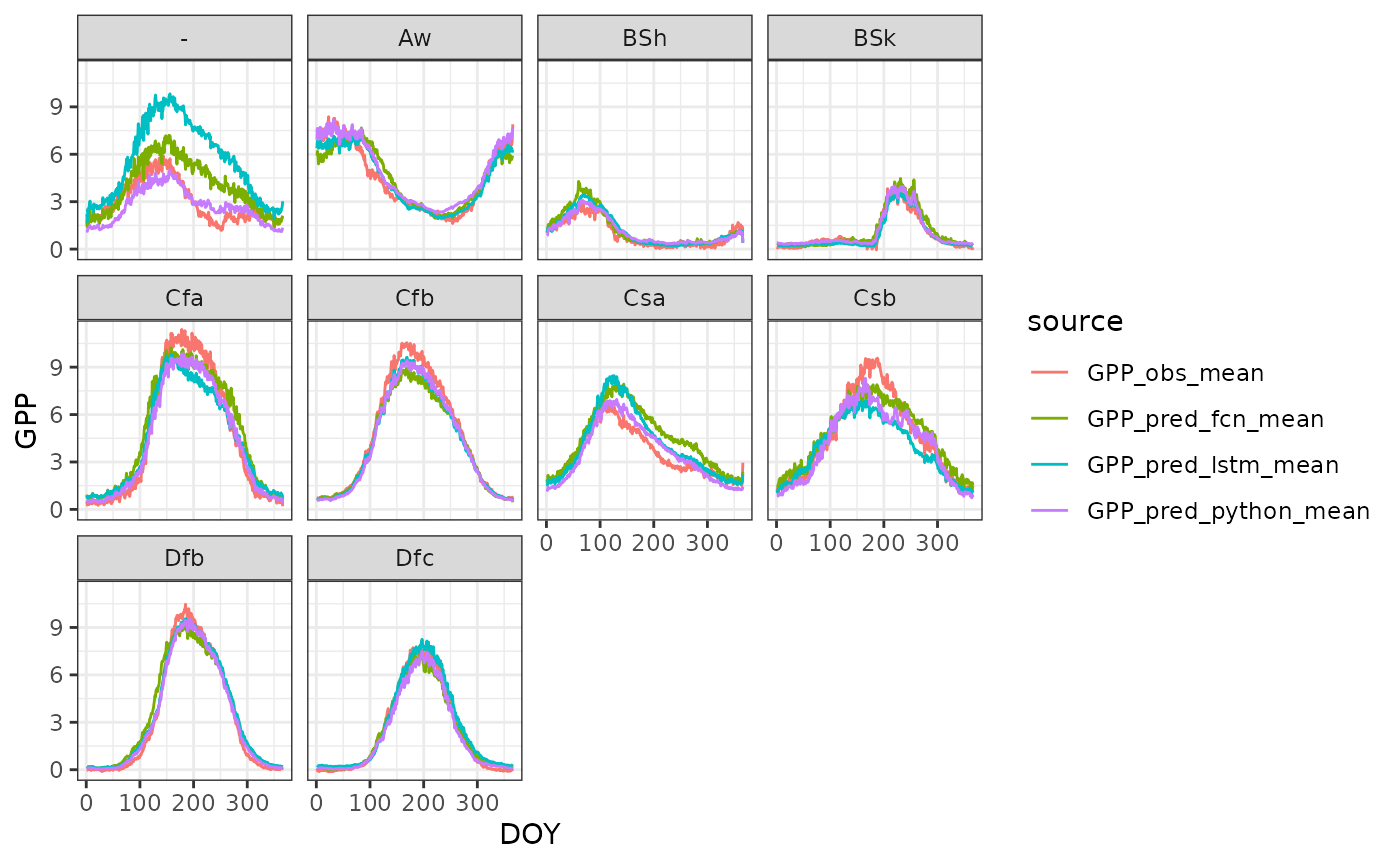
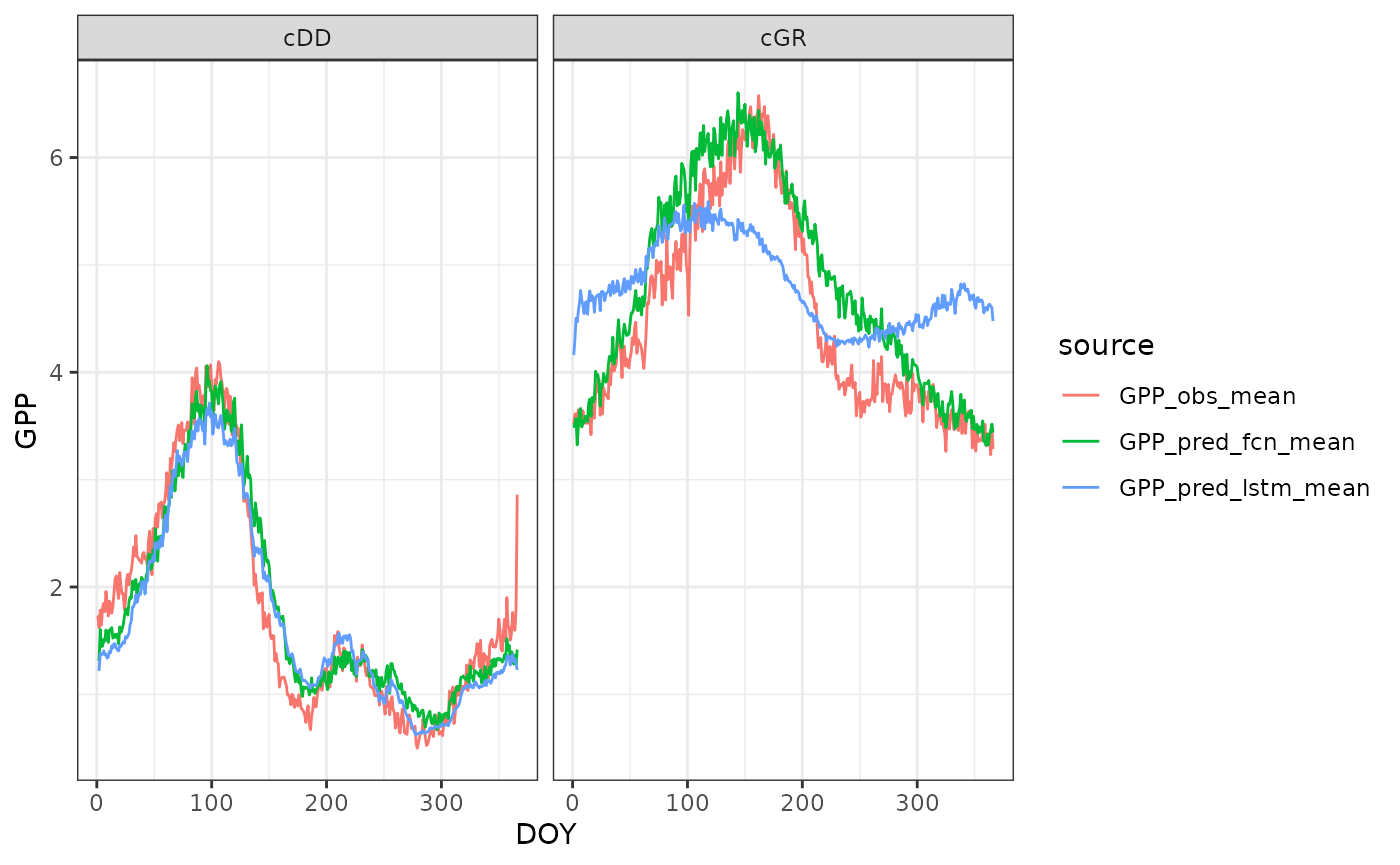
Deploying to gh-pages from @ geco-bern/mlflx3_R@7e076e372efd6a63da913654fa2e2727c877a08d 🚀

diff --git a/articles/01_results.html b/articles/01_results.html
@@ -100,10 +100,11 @@ Hufkens</h4>
     
     
 <p>Summary results of training FCN / LSTM models on 150 epochs.</p>
-<div class="reactable html-widget html-fill-item" id="htmlwidget-39ab8927c224ef1e5657" style="width:auto;height:auto;"></div>
-<script type="application/json" data-for="htmlwidget-39ab8927c224ef1e5657">{"x":{"tag":{"name":"Reactable","attribs":{"data":{"R2_lstm":[0.734],"RMSE_lstm":[2.055],"MAE_lstm":[0.029],"R2_fcn":[0.757],"RMSE_fcn":[1.961],"MAE_fcn":[0.029],"R2_python":[0.817],"RMSE_python":[1.717],"MAE_python":[0.19]},"columns":[{"id":"R2_lstm","name":"R2_lstm","type":"numeric"},{"id":"RMSE_lstm","name":"RMSE_lstm","type":"numeric"},{"id":"MAE_lstm","name":"MAE_lstm","type":"numeric"},{"id":"R2_fcn","name":"R2_fcn","type":"numeric"},{"id":"RMSE_fcn","name":"RMSE_fcn","type":"numeric"},{"id":"MAE_fcn","name":"MAE_fcn","type":"numeric"},{"id":"R2_python","name":"R2_python","type":"numeric"},{"id":"RMSE_python","name":"RMSE_python","type":"numeric"},{"id":"MAE_python","name":"MAE_python","type":"numeric"}],"dataKey":"2df90fa4dc089f79b6c5c69eabc6587c"},"children":[]},"class":"reactR_markup"},"evals":[],"jsHooks":[]}</script><div class="reactable html-widget html-fill-item" id="htmlwidget-103bae2cd45e6cb2c953" style="width:auto;height:auto;"></div>
-<script type="application/json" data-for="htmlwidget-103bae2cd45e6cb2c953">{"x":{"tag":{"name":"Reactable","attribs":{"data":{"sitename":["AU-ASM","AU-DaP","AU-DaS","AU-Fog","AU-How","AU-Stp","AU-Whr","AU-Wom","BE-Bra","BE-Vie","CH-Fru","CH-Lae","CH-Oe1","CN-Qia","CZ-wet","DE-Geb","DE-Gri","DE-Hai","DE-Kli","DE-Obe","DE-RuR","DE-Spw","DE-Tha","DK-Sor","FI-Hyy","FI-Sod","FR-Fon","FR-LBr","FR-Pue","IT-Cp2","IT-Isp","IT-Lav","IT-MBo","IT-Noe","IT-PT1","IT-SR2","IT-SRo","IT-Tor","JP-SMF","NL-Hor","NL-Loo","RU-Fyo","US-GLE","US-Ha1","US-MMS","US-Me2","US-PFa","US-SRG","US-SRM","US-Ton","US-UMB","US-UMd","US-Var"],"koeppen_code":["BSh","Aw","Aw","Aw","Aw","BSh","Cfb","Cfb","Cfb","Cfb","Cfb","Cfb","Cfb","Cfa","Cfb","Cfb","Cfb","Cfb","Cfb","Cfb","Cfb","Cfb","Cfb","Cfb","Dfc","Dfc","Cfb","Cfb","Csa","Csa","Cfb","Cfb","Dfb","-","Cfa","Csa","Csa","Dfc","Cfa","Cfb","Cfb","Dfb","Dfb","Dfb","Cfa","Csb","Dfb","BSk","BSk","Csa","Dfb","Dfb","Csa"],"R2_lstm":[0.691,0.692,0.412,0.678,0.552,0.648,0.405,0.722,0.768,0.885,0.832,0.653,0.602,0.795,0.74,0.654,0.773,0.912,0.55,0.872,0.791,0.903,0.862,0.903,0.936,0.819,0.847,0.727,0.567,0.576,0.882,0.784,0.864,0.392,0.895,0.821,0.617,0.831,0.719,0.838,0.883,0.873,0.683,0.816,0.888,0.711,0.833,0.707,0.795,0.651,0.922,0.905,0.558],"RMSE_lstm":[0.72,2.26,1.867,2.205,1.98,1.115,1.031,2.719,2.08,1.365,2.449,2.535,2.977,1.472,2.179,2.754,2.024,2.312,3.044,1.762,1.84,1.744,2.002,3.387,0.908,0.976,2.213,1.81,2.66,1.773,2.439,2.168,1.665,3.42,1.634,1.622,2.063,1.971,1.565,1.593,1.148,1.513,1.525,2.255,2.023,1.777,2.088,0.937,0.549,1.611,1.255,1.55,2.801],"MAE_lstm":[0.376,0.346,0.834,1.699,1.088,0.543,0.1,1.37,0.474,0.314,0.951,0.008,1.153,0.796,0.865,0.213,0.147,0.792,0.653,0.603,0.389,0.429,1.16,1.892,0.27,0.122,0.324,0.96,1.954,0.62,0.569,0.535,0.331,2.685,0.498,0.527,0.937,0.896,0.173,0.222,0.224,0.337,0.668,0.086,0.092,0.711,1.001,0.159,0.069,0.249,0.026,0.347,1.669],"R2_fcn":[0.654,0.704,0.495,0.611,0.442,0.603,0.149,0.804,0.776,0.854,0.813,0.686,0.676,0.811,0.79,0.69,0.793,0.877,0.693,0.86,0.794,0.916,0.87,0.896,0.898,0.68,0.843,0.726,0.527,0.564,0.838,0.798,0.858,0.517,0.872,0.829,0.627,0.85,0.734,0.83,0.792,0.854,0.706,0.765,0.873,0.748,0.827,0.715,0.72,0.628,0.895,0.879,0.659],"RMSE_fcn":[0.649,2.447,1.747,1.814,1.868,1.128,1.485,1.655,1.635,1.618,2.587,2.414,2.655,1.268,1.891,2.753,1.894,2.045,2.412,2.098,1.739,1.893,2.139,3.16,1.119,1.38,2.232,1.736,2.837,2.319,3.145,1.909,1.718,1.739,2.64,1.437,1.967,1.307,1.537,1.484,1.524,1.608,1.402,2.523,2.066,1.496,1.951,1.106,0.678,1.417,1.472,1.711,2.051],"MAE_fcn":[0.125,1.179,0.582,1.126,0.286,0.372,0.449,0.767,0.109,0.604,1.06,0.406,0.977,0.165,0.664,0.284,0.133,0.252,0.132,1.049,0.13,0.849,1.302,1.728,0.163,0.477,0.185,0.652,2.142,1.095,1.537,0.557,0.466,1.052,1.453,0.26,0.29,0.174,0.446,0.058,0.438,0.276,0.37,0.363,0.774,0.084,1.076,0.31,0.146,0.301,0.292,0.671,1.112],"R2_python":[0.733,0.762,0.512,0.603,0.609,0.627,0.457,0.74,0.818,0.888,0.803,0.723,0.679,0.835,0.853,0.667,0.772,0.917,0.7,0.899,0.81,0.92,0.841,0.898,0.929,0.766,0.905,0.753,0.557,0.565,0.897,0.788,0.867,0.509,0.923,0.84,0.645,0.88,0.754,0.864,0.874,0.874,0.813,0.847,0.918,0.75,0.86,0.787,0.81,0.652,0.928,0.934,0.644],"RMSE_python":[0.558,2.115,1.55,0.938,1.586,0.952,0.996,1.313,1.421,1.299,2.262,2.252,2.553,1.176,1.501,2.666,1.996,1.816,2.388,1.541,1.671,1.627,2.008,3.157,0.914,1.213,1.973,1.634,1.367,1.672,2.08,1.896,1.596,1.2,1.694,1.426,1.903,1.125,1.415,1.34,1.154,1.503,1.083,2.133,1.739,1.548,1.584,0.85,0.521,1.301,1.229,1.168,1.895],"MAE_python":[0.091,0.881,0.348,0.04,0.233,0.316,0.319,0.212,0.237,0.003,0.097,0.363,0.673,0.319,0.233,0.047,0.229,0.474,0.212,0.491,0.239,0.533,1.016,1.661,0.001,0.459,0.758,0.65,0.092,0.545,0.488,0.463,0.03,0.268,0.798,0.425,0.489,0.003,0.153,0.185,0.068,0.29,0.152,0.366,0.161,0.478,0.598,0.214,0.098,0.084,0.017,0.116,0.742]},"columns":[{"id":"sitename","name":"sitename","type":"character"},{"id":"koeppen_code","name":"koeppen_code","type":"character"},{"id":"R2_lstm","name":"R2_lstm","type":"numeric"},{"id":"RMSE_lstm","name":"RMSE_lstm","type":"numeric"},{"id":"MAE_lstm","name":"MAE_lstm","type":"numeric"},{"id":"R2_fcn","name":"R2_fcn","type":"numeric"},{"id":"RMSE_fcn","name":"RMSE_fcn","type":"numeric"},{"id":"MAE_fcn","name":"MAE_fcn","type":"numeric"},{"id":"R2_python","name":"R2_python","type":"numeric"},{"id":"RMSE_python","name":"RMSE_python","type":"numeric"},{"id":"MAE_python","name":"MAE_python","type":"numeric"}],"dataKey":"23a4acfbe641a933f592c6b26e3882ae"},"children":[]},"class":"reactR_markup"},"evals":[],"jsHooks":[]}</script><p><img src="01_results_files/figure-html/unnamed-chunk-4-1.png" width="700"></p>
+<div class="reactable html-widget html-fill-item" id="htmlwidget-2d0313bd56117055a2a6" style="width:auto;height:auto;"></div>
+<script type="application/json" data-for="htmlwidget-2d0313bd56117055a2a6">{"x":{"tag":{"name":"Reactable","attribs":{"data":{"R2_lstm":[0.42],"RMSE_lstm":[2.223],"MAE_lstm":[0.131],"R2_fcn":[0.617],"RMSE_fcn":[1.802],"MAE_fcn":[0.173]},"columns":[{"id":"R2_lstm","name":"R2_lstm","type":"numeric"},{"id":"RMSE_lstm","name":"RMSE_lstm","type":"numeric"},{"id":"MAE_lstm","name":"MAE_lstm","type":"numeric"},{"id":"R2_fcn","name":"R2_fcn","type":"numeric"},{"id":"RMSE_fcn","name":"RMSE_fcn","type":"numeric"},{"id":"MAE_fcn","name":"MAE_fcn","type":"numeric"}],"dataKey":"3d7a6521d9c249e00dfd4b8a0f810d87"},"children":[]},"class":"reactR_markup"},"evals":[],"jsHooks":[]}</script><div class="reactable html-widget html-fill-item" id="htmlwidget-afd05bf8c9c1e3735000" style="width:auto;height:auto;"></div>
+<script type="application/json" data-for="htmlwidget-afd05bf8c9c1e3735000">{"x":{"tag":{"name":"Reactable","attribs":{"data":{"sitename":["AU-ASM","AU-DaP","AU-Fog","AU-Stp","US-SRG","US-SRM","US-Ton","US-Var","AU-DaS","AU-How","AU-Whr","CN-Qia","FR-LBr","FR-Pue","IT-Cp2","IT-Noe","IT-SRo"],"cluster":["cDD","cDD","cDD","cDD","cDD","cDD","cDD","cDD","cGR","cGR","cGR","cGR","cGR","cGR","cGR","cGR","cGR"],"R2_lstm":[0.673,0.74,0.57,0.59,0.795,0.806,0.481,0.531,0.001,0.541,0.458,0.007,0.001,0,0.579,0.584,0.002],"RMSE_lstm":[0.62,2.948,1.473,1.109,0.872,0.619,1.944,2.321,2.108,1.68,0.962,2.711,2.972,2.325,1.476,2.898,3.151],"MAE_lstm":[0.124,1.358,0.635,0.235,0.317,0.215,1.167,1.187,0.22,0.045,0.028,0.33,0.541,1.275,0.008,2.506,1.063],"R2_fcn":[0.696,0.719,0.647,0.576,0.749,0.774,0.56,0.618,0.513,0.472,0.471,0.807,0.759,0.557,0.58,0.511,0.618],"RMSE_fcn":[0.661,2.898,2.178,1.377,0.859,0.579,1.681,2.018,1.694,1.844,0.987,1.486,1.7,2.082,1.841,2.14,1.973],"MAE_fcn":[0.295,1.274,1.538,0.407,0.096,0.085,0.877,0.931,0.701,0.338,0.344,0.809,0.622,1.509,0.837,1.632,0.603]},"columns":[{"id":"sitename","name":"sitename","type":"character"},{"id":"cluster","name":"cluster","type":"character"},{"id":"R2_lstm","name":"R2_lstm","type":"numeric"},{"id":"RMSE_lstm","name":"RMSE_lstm","type":"numeric"},{"id":"MAE_lstm","name":"MAE_lstm","type":"numeric"},{"id":"R2_fcn","name":"R2_fcn","type":"numeric"},{"id":"RMSE_fcn","name":"RMSE_fcn","type":"numeric"},{"id":"MAE_fcn","name":"MAE_fcn","type":"numeric"}],"dataKey":"a44acde6c6e8a1146c67f2f0b2bf7365"},"children":[]},"class":"reactR_markup"},"evals":[],"jsHooks":[]}</script><p><img src="01_results_files/figure-html/unnamed-chunk-4-1.png" width="700"></p>
 <p><img src="01_results_files/figure-html/unnamed-chunk-5-1.png" width="700"></p>
+<p><img src="01_results_files/figure-html/unnamed-chunk-6-1.png" width="768"></p>
   </div>
 
   <div class="col-md-3 hidden-xs hidden-sm" id="pkgdown-sidebar">

diff --git a/index.html b/index.html
@@ -86,8 +86,10 @@
       </header><div class="row">
   <div class="contents col-md-9">
 <div class="section level1">
-<div class="page-header"><h1 id="modelling-flux-responses-to-drough-using-dnn">Modelling flux responses to drough using DNN<a class="anchor" aria-label="anchor" href="#modelling-flux-responses-to-drough-using-dnn"></a>
+<div class="page-header"><h1 id="modelling-flux-responses-to-drought-using-dnn">Modelling flux responses to drought using DNN<a class="anchor" aria-label="anchor" href="#modelling-flux-responses-to-drought-using-dnn"></a>
 </h1></div>
+<p>This analysis explores if LSTM models have any advantage over conventional neural nets when modelling GPP. Given that fAPAR is included in the predictors any conventional wisdom suggests that lagged dependencies are encoded in this variable. Splitting out some of this variability can only be accomplished in cases where drought would limit the productivity without altering the state of the canopy, i.e. evergreen trees. It is therefore assumed hypothesized that the LSTM architecture might perform better for evergreen trees which are exposed to drought conditions.</p>
+<p>The workflow will use a leave-site-out cross validation as a robustness check, i.e. training the model on all but the left out site. The left out site will be used as a test case. Data are split between drought decidious and evegreen droughted locations as previously described in Stocker et al. 2018 (see figure 6).</p>
 <div class="section level2">
 <h2 id="setup">Setup<a class="anchor" aria-label="anchor" href="#setup"></a>
 </h2>
@@ -109,6 +111,11 @@ docker build -f Dockerfile -t rocker-torch .</code></pre>
 </h3>
 <p>Analysis scripts are stored in the <code>analysis</code> folder and should be run in sequence. Note that the standard deep neural net is small enough to run an CPU. Summary <a href="https://geco-bern.github.io/mlflx2_R/articles/01_results.html" class="external-link">results</a> are automatically rendered using the vignettes in the <code>vignettes</code> folder.</p>
 </div>
+</div>
+<div class="section level2">
+<h2 id="references">References<a class="anchor" aria-label="anchor" href="#references"></a>
+</h2>
+<p>Stocker, Benjamin D., Jakob Zscheischler, Trevor F. Keenan, I. Colin Prentice, Josep Peñuelas, and Sonia I. Seneviratne. “Quantifying Soil Moisture Impacts on Light Use Efficiency across Biomes.” New Phytologist 218, no. 4 (June 2018): 1430–49. <a href="https://doi.org/10.1111/nph.15123" class="external-link uri">https://doi.org/10.1111/nph.15123</a>.</p>
 </div>
 </div>
   </div>
